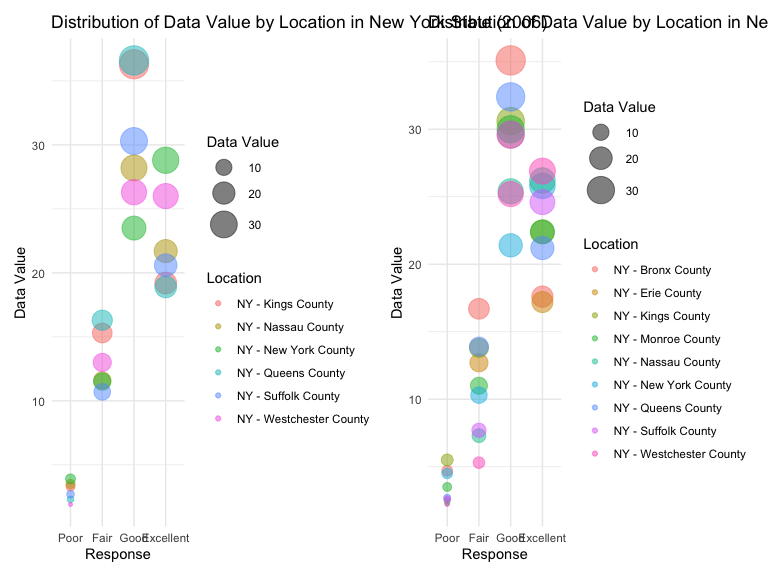
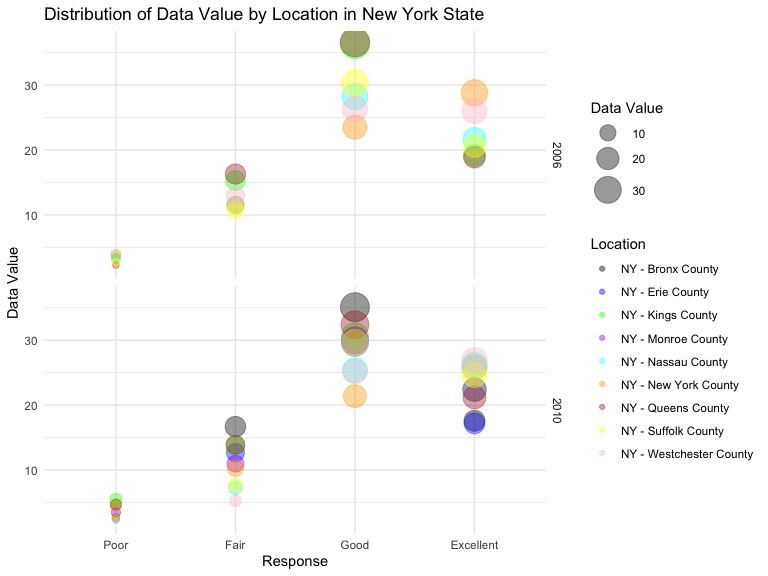
faceting the two panel scatter plot for problem2``

diff --git a/p8105_hw3_vsm2118.md b/p8105_hw3_vsm2118.md
@@ -316,39 +316,21 @@ years 2006 and 2010:
 ny_data <- brfss_data_cleaned %>%
   filter(state == "NY" & year %in% c(2006, 2010) & response %in% c("Poor", "Fair", "Good", "Very Good", "Excellent"))
 
-# Create the first plot: scatter plot of data_value vs. response for 2006
-ny_data_2006 <- ny_data %>%
-  filter(year == 2006)
+custom_colors <- c("NY - Bronx County" = "black", "NY - Erie County" = "blue", "NY - Kings County" = "green", "NY - Monroe County" = "purple", "NY - New York County" = "orange",
+                   "NY - Nassau County" = "cyan", "NY - Queens County" = "brown", "NY - Suffolk County" = "yellow", "NY - Westchester County" = "pink")
 
-plot_2006 <- ggplot(ny_data_2006, aes(x = response, y = data_value, color = locationdesc, size = data_value)) +
-  geom_point(alpha = 0.5) +
-  scale_color_discrete(name = "Location") +
+# Create the scatter plot for 2006 and 2010 and facet by year
+plot_combined <- ggplot(ny_data, aes(x = response, y = data_value, color = locationdesc, size = data_value)) +
+  geom_point(alpha = 0.4) +
+  scale_color_manual(values = custom_colors) +  # Use the custom color palette
   scale_size_continuous(range = c(1, 10)) +
-  labs(title = "Distribution of Data Value by Location in New York State (2006)",
+  labs(title = "Distribution of Data Value by Location in New York State",
        x = "Response",
        y = "Data Value",
        color = "Location",
        size = "Data Value") +
-  theme_minimal()
-
-# Create the second plot: scatter plot of data_value vs. response for 2010
-ny_data_2010 <- ny_data %>%
-  filter(year == 2010)
-
-plot_2010 <- ggplot(ny_data_2010, aes(x = response, y = data_value, color = locationdesc, size = data_value)) +
-  geom_point(alpha = 0.5) +
-  scale_color_discrete(name = "Location") +
-  scale_size_continuous(range = c(1, 10)) +
-  labs(title = "Distribution of Data Value by Location in New York State (2010)",
-       x = "Response",
-       y = "Data Value",
-       color = "Location",
-       size = "Data Value") +
-  theme_minimal() 
-
-# Combine the two plots into a single multipanel plot
-plot_combined <- plot_2006 + plot_2010
-
+  theme_minimal() +
+  facet_grid(year ~ .)
 plot_combined
 ```
 
